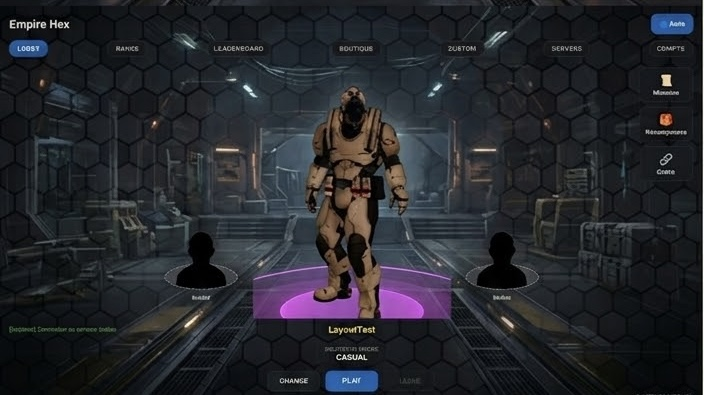
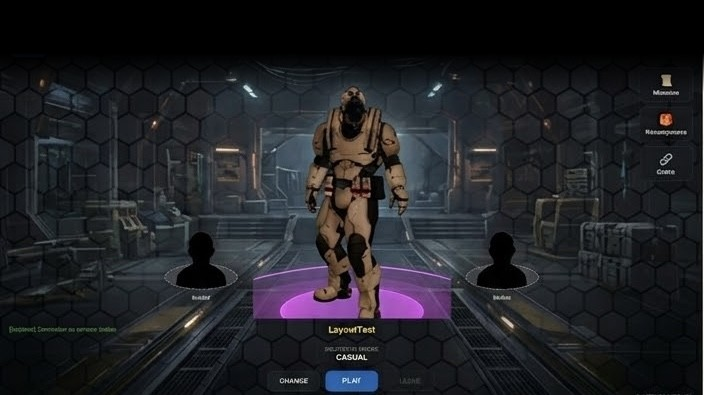
Efface les onglets fantome dans l'image au lieu de les cacher
Fondu noir sur la bande du haut de l'image de fond pour supprimer le
doublon visuel a la source, et remet le bandeau d'onglets transparent.

Changed region(s): [[0.0, 0.0, 1.0, 0.2127], [0.9375, 0.1823, 0.9688, 0.2127]]

diff --git a/app/src/screens/LobbyScreen.tsx b/app/src/screens/LobbyScreen.tsx
@@ -208,7 +208,7 @@ export function LobbyScreen({
 const styles = StyleSheet.create({
   container: { flex: 1, backgroundColor: '#0d0d0d' },
   bgImage: { ...StyleSheet.absoluteFillObject, width: '100%', height: '100%' },
-  header: { padding: 16, backgroundColor: '#0b0d10' },
+  header: { padding: 16, backgroundColor: 'rgba(8,10,12,0.35)' },
   headerTop: { flexDirection: 'row', justifyContent: 'space-between', alignItems: 'center', marginBottom: 12 },
   brand: {
     color: '#fff',
